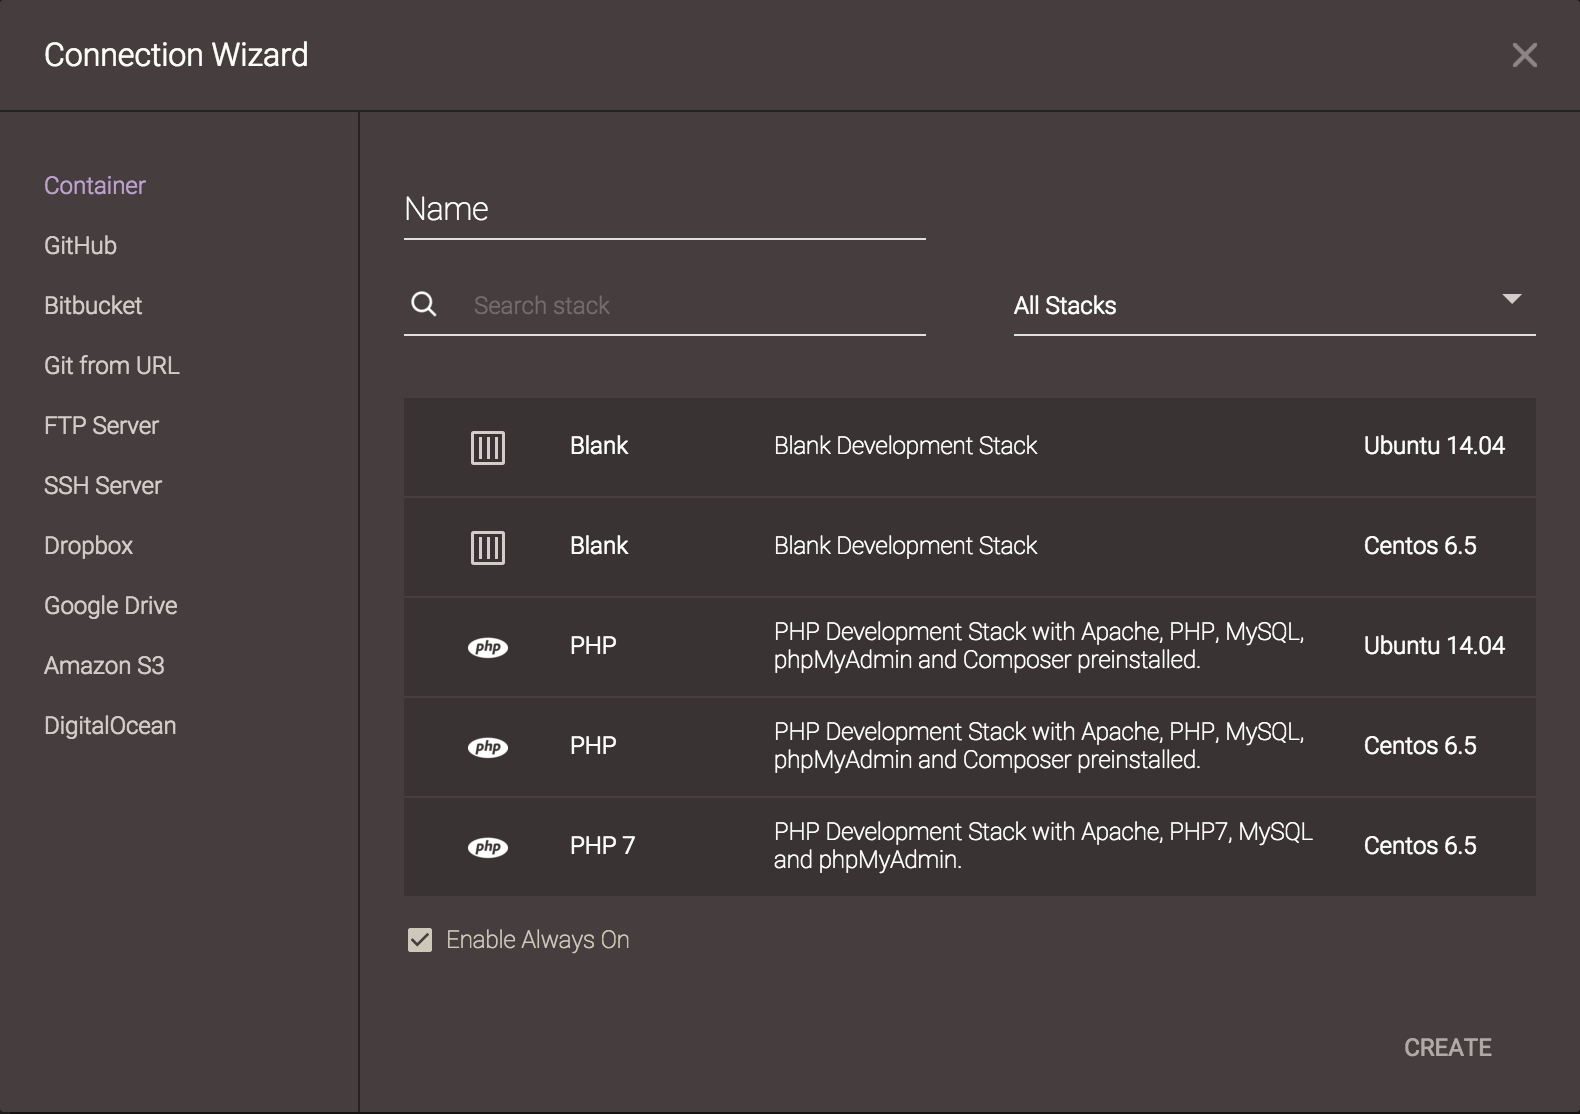
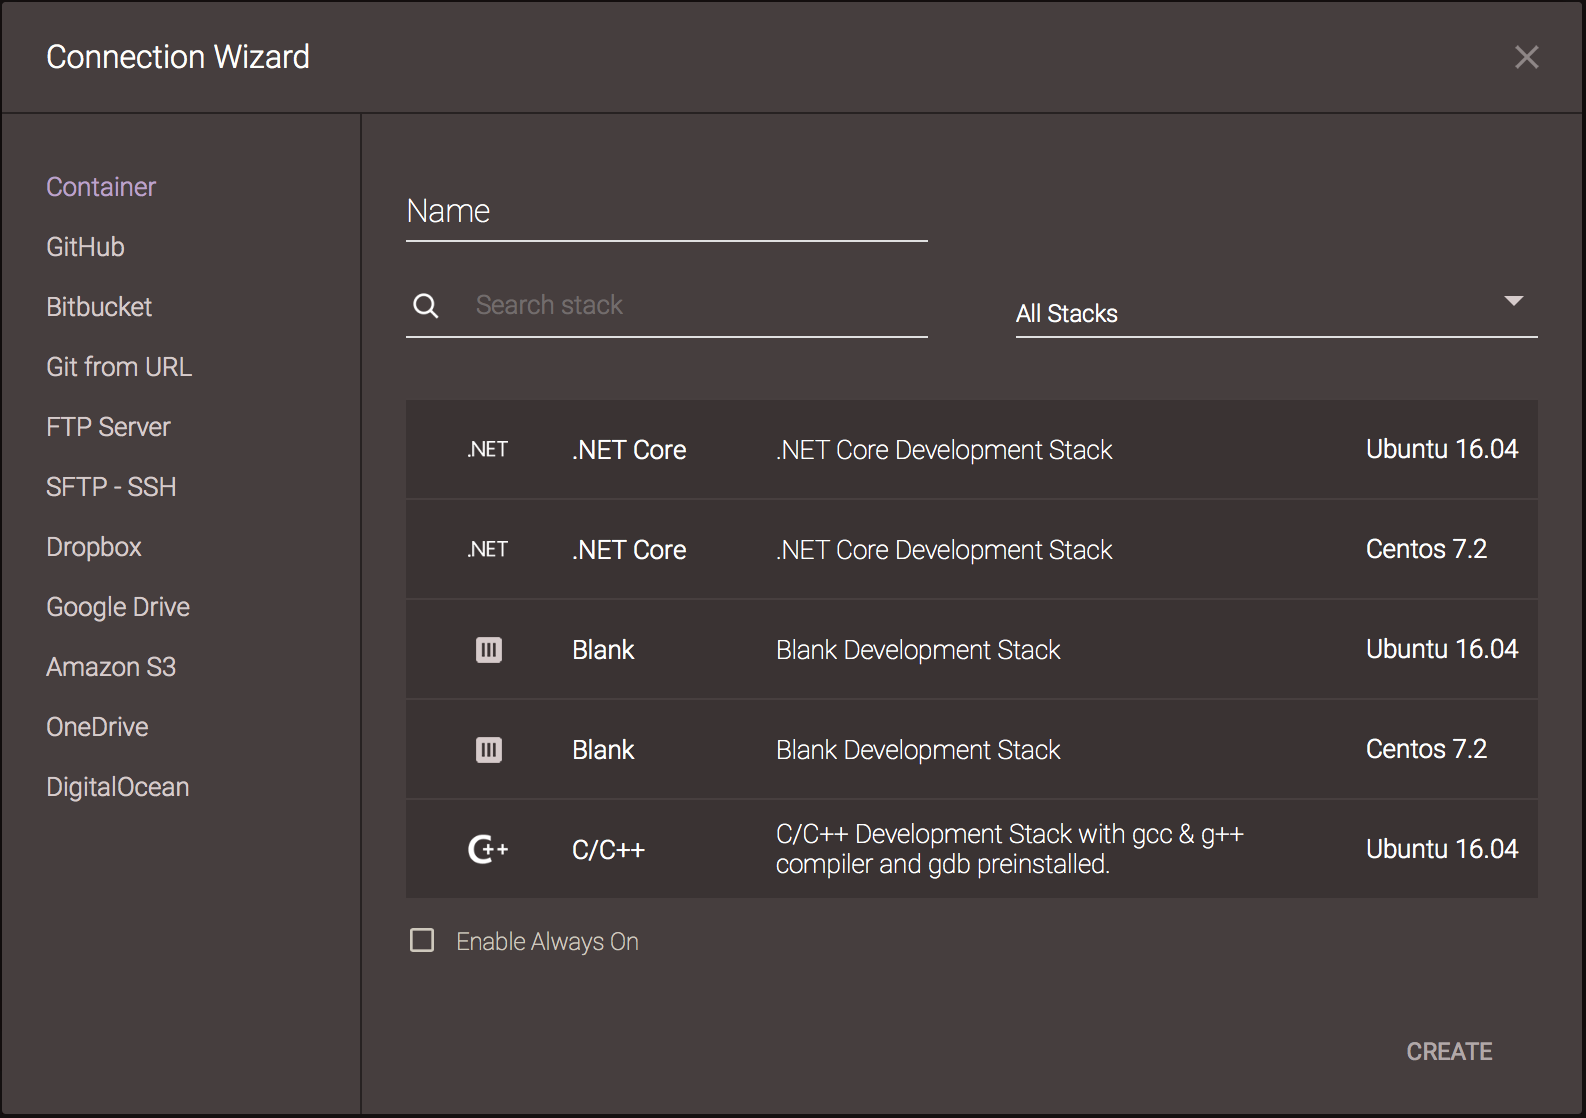
update some container info and stack list

diff --git a/connections/container.md b/connections/container.md
@@ -4,39 +4,26 @@ current_menu: container
 
 # Container
 
-Containers are in essence your own Virtual Private Servers run invisibly in the background of Codeanywhere, each one with its own amount of RAM, Disk space and Processing power. Containers give you the ability to provision any Development Environment you like. You can even choose between one of the predefined stacks:
+Containers are like your own Virtual Private Servers (in essence they are OpenVZ OS containers) provisioned by Codeanywhere, each one with its own amount of RAM, Disk space and Processing power (just like any normal VPS but with some limitations such as lack of a dedicated IP address). Containers give you the ability to provision any Development Environment you like. You can choose between one of the predefined stacks:
 
-- Blank – Blank Development Box
-- PHP – PHP Development Stack with Apache, PHP, MySQL, phpMyAdmin and Composer preinstalled
-- PHP7 – PHP Development Stack with Apache, PHP7, MySQL and phpMyAdmin preinstalled (only CentOS).
-- NodeJS – NodeJS Development Stack with NodeJS, MySQL, NPM, bower and grunt preinstalled
+- Default – Blank Development Container
+- PHP – LAMP Development Stack with phpMyAdmin and Composer preinstalled
+- NodeJS – NodeJS Development Stack with npm and yarn preinstalled
 - Ruby – Ruby Development Stack with RVM and Ruby on Rails preinstalled
-- Python – Python Development Stack with pip and virtualenv preinstalled
+- Python – Python Development Stack with pyenv, pip and virtualenv preinstalled
 - C/C++ – C/C++ Development Stack with gcc and g++ compiler and gdb preinstalled
-- HTML – HTML5 Development Stack with Apache, npm, yeoman, bower and  grunt preinstalled
-- Wordpress – PHP Development Stack with Wordpress 4.2.1, Apache, PHP, MySQL, phpMyAdmin and Composer preinstalled
-- Laravel – PHP Development Stack with Laravel 4.2, Apache, PHP, MySQL, phpMyAdmin and Composer preinstalled
-- MEAN – NodeJS Development Stack with MEAN 0.9.20, NodeJS, bower, MongoDB, gulp and grunt preinstalled
-- Symfony – PHP Development Stack with Symfony 2.6, Apache, PHP, MySQL, phpMyAdmin and Composer preinstalled
-- Sails – NodeJS Development Stack with Meteor, NodeJS, NPM, bower and grunt preinstalled
-- Meteor – Meteor Development Stack with Meteor, NodeJS, NPM, bower and grunt preinstalled
-- EmberJS – EmberJS Development Stack with EmberJS, NodeJS, NPM, bower and grunt preinstalled
-- ioJS – ioJS Development Stack with ioJS, NodeJS, NPM, bower and grunt preinstalled
-- BackboneJS – BackboneJS Development Stack with BackboneJS, Apache (running on standard HTTP port – 80), NPM, bower, grunt preinstalled
-- AngularJS – AngularJS Development Stack with NodeJS, MySQL, NPM, bower and grunt preinstalled
-- CakePHP – PHP Development Stack with Apache (running on standard HTTP port – 80), CakePHP, PHP, MySQL (user: myapp, password: secret), and Composer preinstalled
-- Drupal – PHP Development Stack with Apache (running on standard HTTP port – 80), Drupal, PHP, MySQL (myapp user secret password), phpMyAdmin and Composer preinstalled
-- LoopBack – NodeJS Development Stack with LoopBack, NodeJS, MySQL, NPM, bower and grunt preinstalled
-- Swift – Swift Development Stack
+- HTML – HTML5 Development Stack with Apache, Node.js and npm preinstalled
+- Wordpress – LAMP Development Stack with Wordpress, phpMyAdmin and Composer preinstalled
 - Java – Java Development Stack with OpenJDK7, OpenJDE7 and Tomcat7 preinstalled
+- .NET Core – .NET Core Development Stack
 
 
-You won't even be aware of it being created or started. You can choose between two operating systems: Ubuntu 14.04 and CentOS 6.5.
+You won't even be aware of it being created or started. You can choose between two operating systems: Ubuntu 16.04 and CentOS 7.2.
 
 ![container-create](images/container-create.png "container-create")
 
 
-Also, if you require any development environment you can't find in our list, you can use your SSH terminal and create your own stack! Afterwards, just save it as a Custom Stack and you can use it again and again!
+Also, if you require any development environment you can't find in our list, you can create a container from a Blank stack and install anything you want and you can find some popular stacks installation steps in our Advanced Topics section. Afterwards, just save it as a Custom Stack and you can use it again and again!
 The best part of Containers is that not only does it remove issue of having your development environment wherever you are; it also enables you to connect to any GIT repository in the world, be it a corporate server or popular services like GitHub or Bitbucket. With Containers you can now finally connect to your repositories and use its full capabilities, so now you can use commit to repositories from Codeanywhere!
 
 Create a new Container by going to File -> New Connection -> Container
